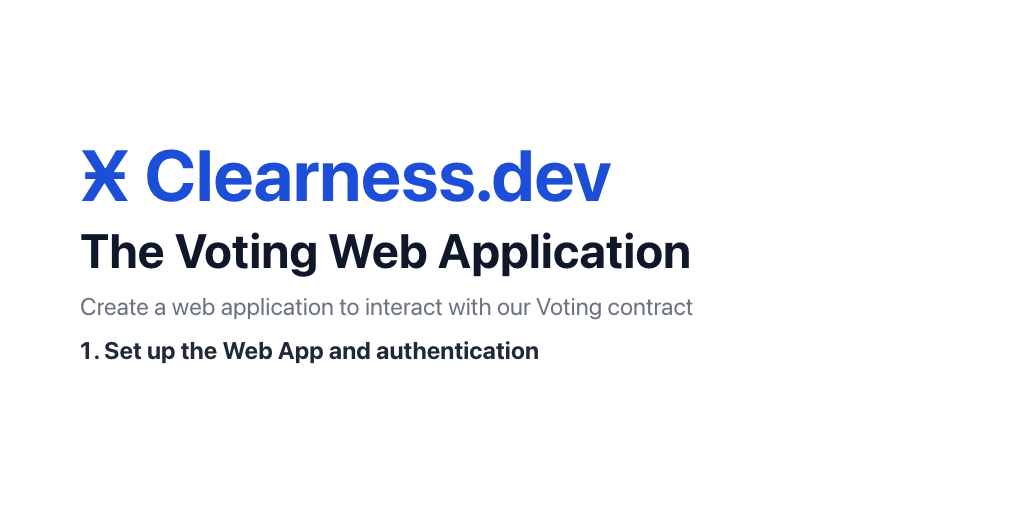
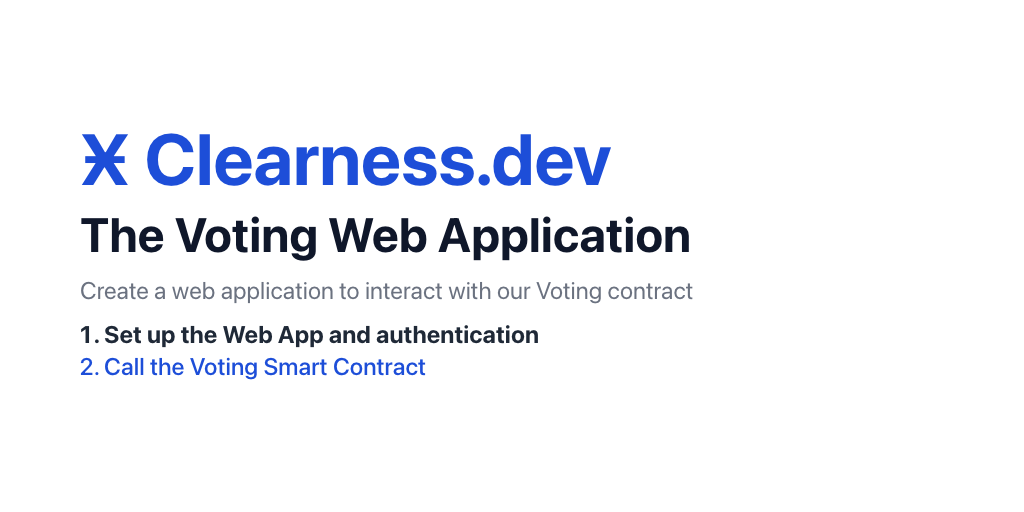
publish article 3.2

Changed region(s): [[0.0625, 0.25, 0.6875, 0.75]]

diff --git a/app/routes/__posts/03-build-the-voting-client/02-call-smart-contract.md b/app/routes/__posts/03-build-the-voting-client/02-call-smart-contract.md
@@ -3,24 +3,24 @@ headers:
   Cache-Control: public, max-age=0, must-revalidate, s-maxage=2592000
 ---
 
-In the previous article we worked on some mandatory steps to get started. The people visiting our web app are now able to authenticate with their Stacks Wallet. Once logged in, they will be able to call the functions exposed by our contract.
+In the previous article, we worked on some mandatory steps to get started. The people visiting our web app are now able to authenticate with their Stacks Wallet. Once logged in, they will be able to call the functions exposed by our contract.
 
 > :bulb: Make sure that your code from the previous article is working. You can pull the code from the [step-1 branch](https://github.com/hugocaillard/color-webapp-tuto/tree/step-1).
 
 ### **Read-only** VS **Public** Functions
 
-In the very [first article](/01-voting-clarity-smart-contract/01-getting-started) of the voting smart contract series, I explained the difference between `read-only` and `public` functions. It will seem support important now that will call the contract from our web app.
+In the very [first article](/01-voting-clarity-smart-contract/01-getting-started) of the voting smart contract series, I explained the difference between `read-only` and `public` functions. It will become more relevant now that will call the contract from our web app.
 
 While these two types of functions are publicly exposed, they have a few fundamental differences.
 - :point_right: A call to a read-only function is an HTTP request to a stacks-api endpoint. So no fees are required.
-- :point_right: Calling a public function means creating a transaction that will be validated by a miner, who will be rewarded with the fees set by the caller. It requires to open a web wallet popup and to wait a few minutes for the transaction to be validated.
+- :point_right: Calling a public function means creating a transaction that will be validated by a miner, who will be rewarded with the fees set by the caller. It requires opening a web wallet popup and waiting a few minutes for the transaction to be validated.
 
-From a developer point of view, it means that calling a read-only function or a public one will be different.
+From a developer's point of view, it means that calling a read-only function or a public one will be different.
 
 ### Fetch Color options
 
 The "color-vote" contract is our source of truth, it exposes the vote options that can be fetched by calling the read-only function `get-colors`.  
-Create a file called `./src/data/stacks.ts` in which we will abstract calls to our contract. First, we will require some of our dependencies, declare some functions and instanciate a "network" object:
+Create a file called `./src/data/stacks.ts` in which we will abstract calls to our contract. First, we will require some of our dependencies, declare some functions and instantiate a "network" object:
 
 #### ./src/data/stacks.ts
 ```ts
@@ -35,14 +35,14 @@ const ADDRESS = 'ST1PQHQKV0RJXZFY1DGX8MNSNYVE3VGZJSRTPGZGM'
 const CONTRACT = 'color-vote'
 ```
 
-The `ADDRESS` stores the stacks address on which our contract is deployed. In development, the contract was deployed by running `$ clarinet integrate`. It uses the [deployer address in the Devnet.toml file](https://github.com/hugocaillard/clarity-voting-tuto/blob/343f47fc39be15ea856f01b6e13de5cd13da3f77/settings/Devnet.toml#L9).
+The `ADDRESS` stores the Stacks address on which our contract is deployed. In development, the contract was deployed by running `$ clarinet integrate`. It uses the [deployer address in the Devnet.toml file](https://github.com/hugocaillard/clarity-voting-tuto/blob/343f47fc39be15ea856f01b6e13de5cd13da3f77/settings/Devnet.toml#L9).
 
-In the future, we will add some logic to handle call to the testnet or the mainnet. For now, working with the Devnet is enough.
+In the future, we will add some logic to handle calls to the testnet or the mainnet. For now, working with the devnet is enough.
 
 > :point_up: "devnet" and "mocknet" are synonyms. It's your locally running Stacks network.
-> The "mainnet" is the real Stacks network while the "testnet" is similare one but were everything is fake.
+> The "mainnet" is the real Stacks network while the "testnet" is a similar one but where everything is fake.
 
-The `callReadOnlyFunction` method is quite self explanatory. As explained above, it will call a stacks API endpoint that will call a smart contract's read-only function. It accept an option argument. Here is a description of the required options:
+The `callReadOnlyFunction` method is quite self-explanatory. As explained above, it will call a stacks API endpoint that will call a smart contract's read-only function. It accepts an `options` argument. Here is a description of the required options:
 
 ```ts
 callReadOnlyFunction({
@@ -51,11 +51,11 @@ callReadOnlyFunction({
   functionName, // the read-only function to call
   functionArgs, // an array of arguments to pass to the read-only function
   senderAddress, // the address of the wallet making the call
-  network, // the devnet, testnet or mainnet object
+  network, // the devnet, testnet, or mainnet object
 })
 ```
 
-Let's write a function called `readOnlyRequest` that will allow us to call read-only function on the `color-vote` contract.
+Let's write a function called `readOnlyRequest` that will allow us to call read-only functions on the `color-vote` contract.
 
 #### ./src/data/stacks.ts
 ```ts
@@ -79,13 +79,14 @@ export async function readOnlyRequest(name, args = []) {
 }
 ```
 
-> :bulb: We just used another great feature of zustand, we can call `getState` on a store hook outside of a React component. Here it allows us to get the address of the logged in wallet.
+> :bulb: We just used another great feature of zustand, we can call `getState` on a store hook outside of a React component. Here it allows us to get the address of the logged-in wallet.
 
 This first implementation is quite simple, but not very secure.
 
 <details>
-<summary>Here is an extended version with TS and error handling</summary>
+<summary>Here is an extended version with **TypeScript** and error handling</summary>
 
+#### ./src/data/stacks.ts
 ```ts
 import { StacksMocknet } from 'micro-stacks/network'
 import { callReadOnlyFunction } from 'micro-stacks/transactions'
@@ -128,3 +129,161 @@ export async function readOnlyRequest<T extends ClarityValue>(
 }
 ```
 </details>
+
+We will call this function in a new zustand store called `useColorVote.ts`. It will contain a `fetchColors` method. This function calls the `cvToTrueValue` helper. In this context: `cv` means `Clarity Value`.
+
+Indeed, when fetching colors, the Stacks endpoint will return raw Clarity data. The `callReadOnlyFunction` will convert it into a understanble JS object but we still have to convert it into JS "true values". Here is a snippet to demonstrate this method:
+
+```ts
+async function clarityValueSnippet() {
+  const rawColors = await readOnlyRequest('get-colors')
+  deepEquals(rawColors, {
+    type: 11,
+    list: [
+      {
+        type: 7,
+        value: {
+          data: {
+            id: { type: 1, value: 0n },
+            score: { type: 1, value: 0n },
+            value: { type: 13, data: 'F97316' },
+          },
+        },
+      },
+      // 3 more colors
+    ],
+  })
+
+  const colors = cvToTrueValue(colors)
+  deepEquals(colors, [
+    {
+      id: 0n, // bigint 0
+      score: 0n,
+      value: 'F97316',
+    },
+    // 3 more colors
+  ])
+}
+```
+
+As you can see, the "rawColors" object would be painful to use later in our code. While `cvToTrueValue` recursively browses these values and converts them to a usable JS object.
+
+> :bulb: The `type` properties in `rawColors` tells what is the clarity type of a given value. You may guess what each type means. `11` represents lists, converted to arrays in JS. `7` is for "ok". `13` (which is `0d` in hexadecimal) represents ascii-strings. The full list can be retrieved in [micro-stacks source code](https://github.com/fungible-systems/micro-stacks/blob/5ef1e524c552e8a000f0e72b2289e13b3d0a0567/src/clarity/common/constants.ts#L22-L41).
+
+Here is the store for ColorVote. Again, this is a pretty simple implementation, see below for a more complete one. This store only fetches colors but it will quickly have more method to cast a vote, cancel, or edit it.
+
+#### ./src/hooks/useColorVote.ts
+```ts
+import create from 'zustand'
+import { cvToTrueValue } from 'micro-stacks/clarity'
+
+import { readOnlyRequest } from '../data/stacks'
+
+export const useColorVote = create((set, get) => ({
+  colors: [],
+
+  async fetchColors() {
+    const rawColors = await readOnlyRequest('get-colors')
+
+    const colors = cvToTrueValue(rawColors)
+    set({ colors })
+  },
+}))
+```
+
+<details>
+<summary>Improved version with error handling a types safety</summary>
+
+```ts
+import create from 'zustand'
+import { cvToTrueValue } from 'micro-stacks/clarity'
+
+import { readOnlyRequest } from '../data/stacks'
+
+export interface Color {
+  id: bigint
+  value: string
+  score: bigint
+}
+
+interface ColorStore {
+  colors: Color[]
+  fetchColors: () => Promise<void>
+}
+
+function checkColors(colors: unknown): colors is Color[] {
+  if (!Array.isArray(colors)) return false
+  return colors.reduce((acc, c) => acc && c.value, true)
+}
+
+export const useColorVote = create<ColorStore>((set, get) => ({
+  colors: [],
+
+  async fetchColors() {
+    const rawColors = await readOnlyRequest('get-colors')
+    if (!rawColors) return
+
+    const colors = cvToTrueValue(rawColors)
+    if (checkColors(colors)) set({ colors })
+  },
+}))
+```
+
+It's looking pretty good like that. We could have written `cvToTrueValue(rawColors) as Colors[]` to make TypeScript happy. But it's good practice to check network responses and ensure types safety. Also, the `checkColors` method could be improved even further, along with error handling.
+</details>
+
+This store is now ready to be called. We want to fetch the colors early in our application but we've also seen that we need the user to be authenticated to have a valid `senderAddress` passed to `callReadOnlyFunction`.  
+As often, there are multiple ways to achieve it, here is one. We'll modify `App.tsx` to initiate the fetch.
+
+#### ./src/App.tsx
+```ts
+// add imports
+import { useEffect } from 'preact/hooks'
+import { useColorVote } from './hooks/useColorVote'
+//...
+
+export function App() {
+  const { session } = useAuth()
+  useEffect(() => {
+    // fetch colors without rerendering App
+    if (session) useColorVote.getState().fetchColors()
+  }, [session])
+
+  // ...
+}
+```
+
+> :bulb: As you can see, we are not directly calling `useColorVote()`. Instead, `getState` is called to access the `fetchColors` method. This way, the App component doesn't subscribe to the ColorVote hook and won't rerender on change.
+
+We'll use SVGs to display the colors. I made a simple [Circle](https://github.com/hugocaillard/color-webapp-tuto/blob/step-2/src/components/UI/svg/Circle.tsx) component to which we'll pass the colors. The 4 colors options will be displayed in `Vote.tsx`:
+
+#### ./src/pages/Vote.tsx
+```tsx
+// slightly simplified version
+import { Circle } from '../components/UI/svg/Circle'
+import { useColorVote } from '../hooks/useColorVote'
+
+export const Vote = () => {
+  const { colors } = useColorVote()
+
+  return colors ? (
+    <div className="flex">
+      {colors.map(({ id, value}) => (
+        <Circle key={id} hex={value} />
+      ))}
+    </div>
+  ) : null
+}
+```
+
+Nothing fancy here, we invoke useColorVote to get the colors from our store and display them on our page with SVG. At this stage, you should see four circles of colors nicely aligned on the page thanks to flexbox.
+
+To make the vote fairer, I'll randomize the order in which the colors are displayed. We won't get into details but you can check [this commit](https://github.com/hugocaillard/color-webapp-tuto/commit/f368cde0bf0bb208c5161cc05b1007349276e54a) to see the changes.  
+This way, the order of color is changed every time the page is refreshed.
+
+### Conclusion
+
+We just learned how to fetch data from the smart contract and the web app is starting to take shape. Depending on your JS/TS level, the tutorial may have been more or less simple. I'm trying to keep it simple. You can see how important is JS in the Clarity ecosystem, whether you want to write tests for your smart contract or write a web app. Indeed, front-end skills are required in Web2 and Web3!
+
+> 💻 **Read the code on GitHub**. The source code of this article is on [this branch](https://github.com/hugocaillard/color-webapp-tuto/tree/step-2).  
+> There is a [PR associated with this article](https://github.com/hugocaillard/color-webapp-tuto/pull/2).

diff --git a/app/routes/__posts/03-build-the-voting-client/index.md b/app/routes/__posts/03-build-the-voting-client/index.md
@@ -15,5 +15,5 @@ posts:
     description: Call read-only functions on our Stacks smart contract
     publicationDate: 30/03/2022
     lastEditDate: 30/03/2022
-    wip: true
+    wip: false
 ---
